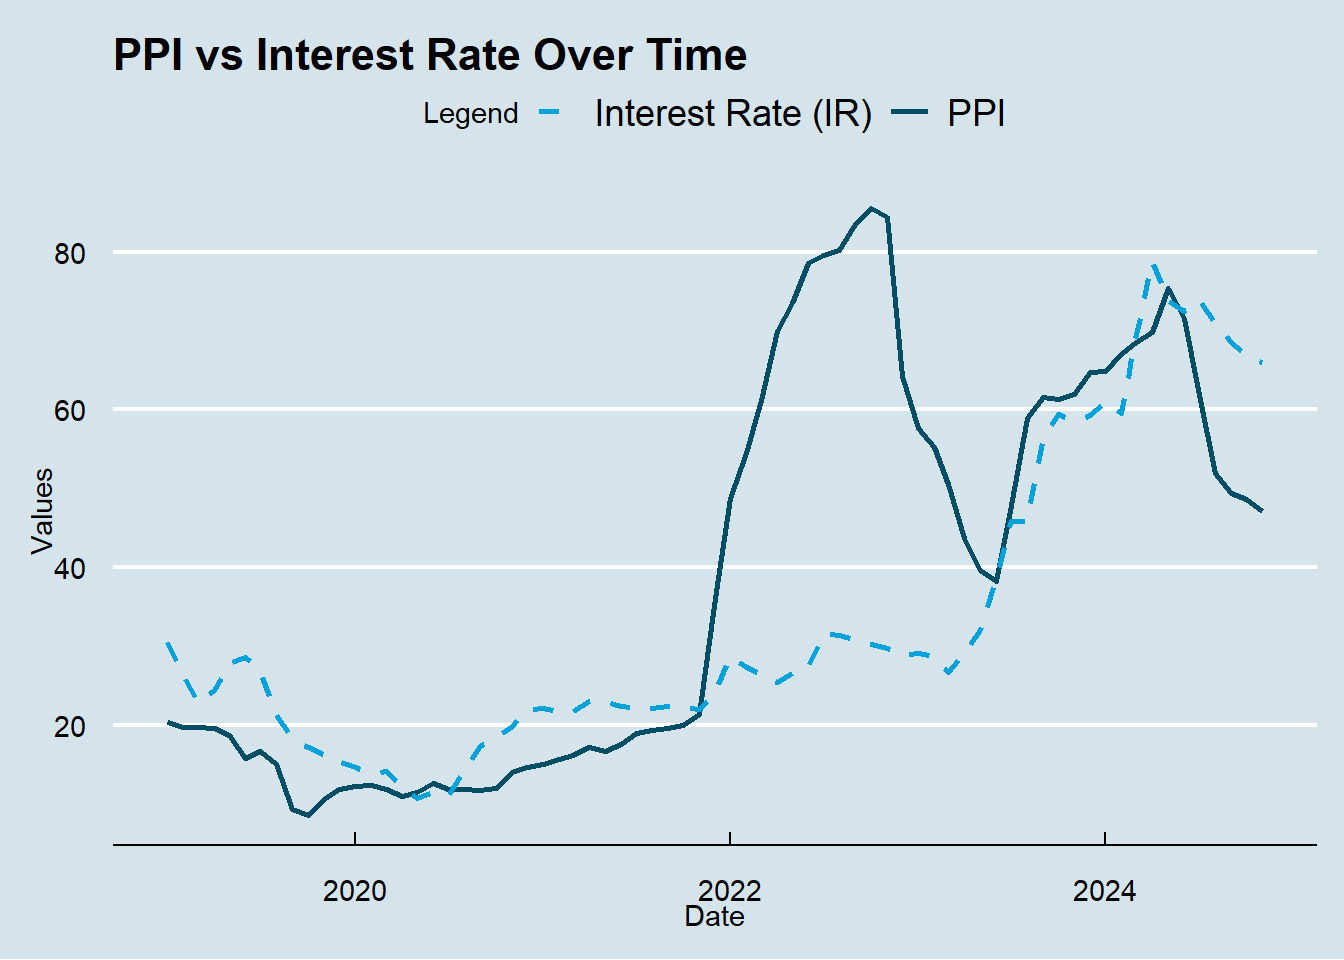
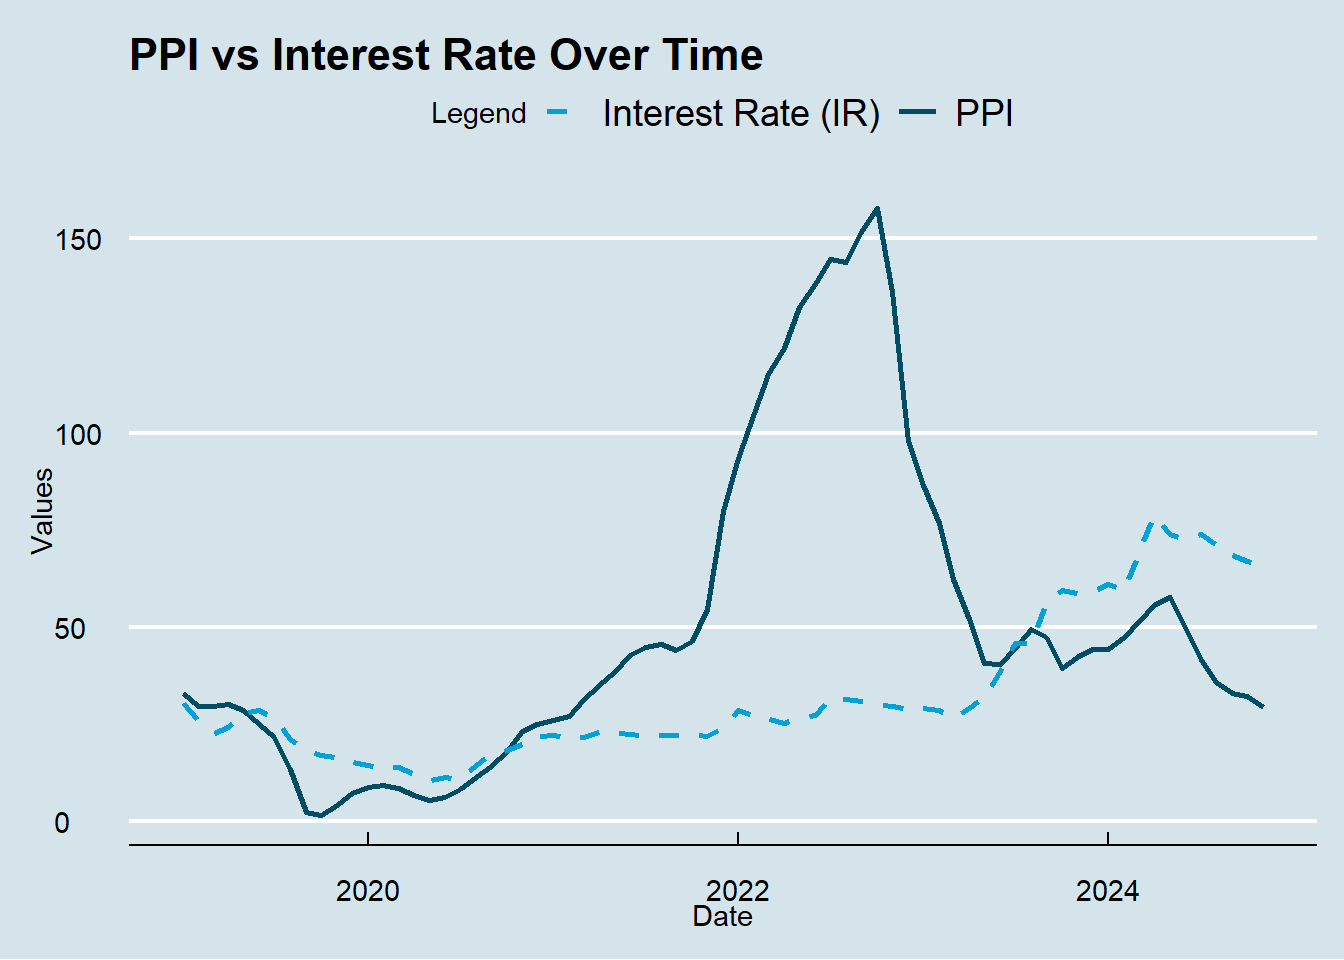
lmlmlml

diff --git a/docs/analysis.html b/docs/analysis.html
@@ -444,16 +444,16 @@ F-statistic: 119.3 on 1 and 69 DF,  p-value: &lt; 2.2e-16</code></pre>
 <pre><code># A tibble: 10 × 3
    DATE         PPI    IR
    &lt;date&gt;     &lt;dbl&gt; &lt;dbl&gt;
- 1 2019-01-01 20.4   30.5
- 2 2019-02-01 19.7   26.2
- 3 2019-03-01 19.7   22.8
- 4 2019-04-01 19.5   24.3
- 5 2019-05-01 18.7   27.8
- 6 2019-06-01 15.7   28.6
- 7 2019-07-01 16.6   26.9
- 8 2019-08-01 15.0   21.2
- 9 2019-09-01  9.26  18.2
-10 2019-10-01  8.55  17.2</code></pre>
+ 1 2019-01-01 32.9   30.5
+ 2 2019-02-01 29.6   26.2
+ 3 2019-03-01 29.6   22.8
+ 4 2019-04-01 30.1   24.3
+ 5 2019-05-01 28.7   27.8
+ 6 2019-06-01 25.0   28.6
+ 7 2019-07-01 21.7   26.9
+ 8 2019-08-01 13.4   21.2
+ 9 2019-09-01  2.45  18.2
+10 2019-10-01  1.7   17.2</code></pre>
 </div>
 </div>
 <p>Now we will sketch a graph line for visualization purposes.</p>
@@ -481,15 +481,15 @@ F-statistic: 119.3 on 1 and 69 DF,  p-value: &lt; 2.2e-16</code></pre>
 <div class="sourceCode cell-code" id="cb45"><pre class="sourceCode r code-with-copy"><code class="sourceCode r"><span id="cb45-1"><a href="#cb45-1" aria-hidden="true" tabindex="-1"></a>cor_interest <span class="ot">&lt;-</span> <span class="fu">cor</span>(data_yusuf<span class="sc">$</span>PPI, data_yusuf<span class="sc">$</span>IR)</span>
 <span id="cb45-2"><a href="#cb45-2" aria-hidden="true" tabindex="-1"></a><span class="fu">print</span>(cor_interest)</span></code><button title="Copy to Clipboard" class="code-copy-button"><i class="bi"></i></button></pre></div>
 <div class="cell-output cell-output-stdout">
-<pre><code>[1] 0.6384482</code></pre>
+<pre><code>[1] 0.1198634</code></pre>
 </div>
 <div class="sourceCode cell-code" id="cb47"><pre class="sourceCode r code-with-copy"><code class="sourceCode r"><span id="cb47-1"><a href="#cb47-1" aria-hidden="true" tabindex="-1"></a>cortest_interest <span class="ot">&lt;-</span> <span class="fu">cor.test</span>(data_yusuf<span class="sc">$</span>PPI, data_yusuf<span class="sc">$</span>IR)</span>
 <span id="cb47-2"><a href="#cb47-2" aria-hidden="true" tabindex="-1"></a><span class="fu">print</span>(cortest_interest<span class="sc">$</span>p.value)</span></code><button title="Copy to Clipboard" class="code-copy-button"><i class="bi"></i></button></pre></div>
 <div class="cell-output cell-output-stdout">
-<pre><code>[1] 2.099621e-09</code></pre>
+<pre><code>[1] 0.3194176</code></pre>
 </div>
 </div>
-<p>Correlation value is 0.638 which means these two indicators has a moderatly strong relation.Also p-value is less than 0.05 and this indicates this correlation value is significantly meaningfull.To conclude,we can say PPI and Interest Rate indicators can affects each other moderatly.</p>
+<p>Correlation value is 0.119 which means these two indicators does not have a strong relation.Also p-value is more than 0.05 and this indicates this correlation value is NOT significantly meaningfull.To conclude,we can say we did not find a clue about relation between PPI and Interest Rate indicators.</p>
 <p><strong>4-PRODUCER PRICE INDEX VS CONSUMER CONFIDENCE INDEX</strong></p>
 <p>This study analyzes the relationship between the Producer Price Index (PPI) and the Consumer Confidence Index (CCI). While PPI measures changes in the prices of goods and services at the producer level, the Consumer Confidence Index reflects the sentiment and expectations of consumers regarding the economy. Understanding the interaction between these two indicators is crucial for assessing the impact of price changes on consumer perceptions and behavior. Using historical data, the study examines how changes in PPI influence consumer confidence and evaluates the direction and magnitude of this relationship through various statistical methods.</p>
 <p>First let’s take a look at our data frame:</p>
@@ -499,16 +499,16 @@ F-statistic: 119.3 on 1 and 69 DF,  p-value: &lt; 2.2e-16</code></pre>
 <pre><code># A tibble: 10 × 3
    DATE         PPI   CCI
    &lt;date&gt;     &lt;dbl&gt; &lt;dbl&gt;
- 1 2019-01-01 20.4   127.
- 2 2019-02-01 19.7   131.
- 3 2019-03-01 19.7   140.
- 4 2019-04-01 19.5   139.
- 5 2019-05-01 18.7   143.
- 6 2019-06-01 15.7   153.
- 7 2019-07-01 16.6   148.
- 8 2019-08-01 15.0   130.
- 9 2019-09-01  9.26  139.
-10 2019-10-01  8.55  142.</code></pre>
+ 1 2019-01-01 32.9   127.
+ 2 2019-02-01 29.6   131.
+ 3 2019-03-01 29.6   140.
+ 4 2019-04-01 30.1   139.
+ 5 2019-05-01 28.7   143.
+ 6 2019-06-01 25.0   153.
+ 7 2019-07-01 21.7   148.
+ 8 2019-08-01 13.4   130.
+ 9 2019-09-01  2.45  139.
+10 2019-10-01  1.7   142.</code></pre>
 </div>
 </div>
 <p>And again as we have done all above we will sketch a line graph:</p>
@@ -532,15 +532,15 @@ F-statistic: 119.3 on 1 and 69 DF,  p-value: &lt; 2.2e-16</code></pre>
 <div class="sourceCode cell-code" id="cb52"><pre class="sourceCode r code-with-copy"><code class="sourceCode r"><span id="cb52-1"><a href="#cb52-1" aria-hidden="true" tabindex="-1"></a>cor_confidence <span class="ot">&lt;-</span> <span class="fu">cor</span>(data_yusuf<span class="sc">$</span>PPI, data_yusuf<span class="sc">$</span>CCI)</span>
 <span id="cb52-2"><a href="#cb52-2" aria-hidden="true" tabindex="-1"></a><span class="fu">print</span>(cor_confidence)</span></code><button title="Copy to Clipboard" class="code-copy-button"><i class="bi"></i></button></pre></div>
 <div class="cell-output cell-output-stdout">
-<pre><code>[1] 0.3265229</code></pre>
+<pre><code>[1] 0.4221268</code></pre>
 </div>
 <div class="sourceCode cell-code" id="cb54"><pre class="sourceCode r code-with-copy"><code class="sourceCode r"><span id="cb54-1"><a href="#cb54-1" aria-hidden="true" tabindex="-1"></a>cortest_confidence <span class="ot">&lt;-</span> <span class="fu">cor.test</span>(data_yusuf<span class="sc">$</span>PPI, data_yusuf<span class="sc">$</span>CCI)</span>
 <span id="cb54-2"><a href="#cb54-2" aria-hidden="true" tabindex="-1"></a><span class="fu">print</span>(cortest_confidence<span class="sc">$</span>p.value)</span></code><button title="Copy to Clipboard" class="code-copy-button"><i class="bi"></i></button></pre></div>
 <div class="cell-output cell-output-stdout">
-<pre><code>[1] 0.00545086</code></pre>
+<pre><code>[1] 0.0002456725</code></pre>
 </div>
 </div>
-<p>0.326 is too low to say these indicators has a notable relation and also p-value is low enough to be statisticaly meaningful but it is lower than our other correlation p-values.So we can easily say we can not confirm that there is a strong relation bewteen PPI and CCI.</p>
+<p>0.422 is relatively low to say these indicators has a notable relation but p-value is low enough to be statisticaly meaningful.So we can easily say we can confirm that there is a relation bewteen PPI and CCI and this relation is not strong.</p>
 <div class="cell">
 <div class="sourceCode cell-code" id="cb56"><pre class="sourceCode r code-with-copy"><code class="sourceCode r"><span id="cb56-1"><a href="#cb56-1" aria-hidden="true" tabindex="-1"></a><span class="fu">library</span>(readxl)      </span>
 <span id="cb56-2"><a href="#cb56-2" aria-hidden="true" tabindex="-1"></a><span class="fu">library</span>(ggplot2)     </span>
@@ -645,22 +645,22 @@ F-statistic: 119.3 on 1 and 69 DF,  p-value: &lt; 2.2e-16</code></pre>
 <p>• Energy Price Index- Producer Price Index (PPI)= 0.25689</p>
 <p>• Housing Price Index- Producer Price Index (PPI)= 0.88859</p>
 <p>• Import Price Index- Producer Price Index (PPI)= 0.41490</p>
-<p>• Interest Rates- Producer Price Index (PPI)= : 0.63844</p>
-<p>• Consumer Confidence Index- Producer Price Index (PPI)= 0.32652</p>
+<p>• Interest Rates- Producer Price Index (PPI)= 0.11986</p>
+<p>• Consumer Confidence Index- Producer Price Index (PPI)= 0.42212</p>
 <p>• Consumer Price Index- Producer Price Index (PPI)= 0.7959363</p>
 <p>• Credit Card Usage- Producer Price Index (PPI)= 0.60305</p>
 <p>We can choose the four most important and influential variables from the dataset we are using, then run a regression analysis to see which factors have the biggest effects on the PPI. We may learn more about the characteristics of the models we should concentrate on and how to enhance them to increase their efficacy or predictive power after performing this regression study. Our best 4 atrribute:</p>
 <ul>
 <li><p>Consumer Price Index- Producer Price Index (PPI)= 0.7959363</p></li>
 <li><p>Housing Price Index- Producer Price Index (PPI)= 0.888596687452896</p></li>
-<li><p>Interest Rates- Producer Price Index (PPI)= : 0.63844</p></li>
+<li><p>Consumer Confidence Index- Producer Price Index (PPI)= 0.42212</p></li>
 <li><p>Credit Card Usage- Producer Price Index (PPI)= 0.60305</p></li>
 </ul>
 <p><strong>PIE CHART FOR CORRELATION VALUES BETWEEN PPI AND FOUR INDICATORS</strong></p>
 <div class="cell">
 <div class="sourceCode cell-code" id="cb67"><pre class="sourceCode r code-with-copy"><code class="sourceCode r"><span id="cb67-1"><a href="#cb67-1" aria-hidden="true" tabindex="-1"></a>labels <span class="ot">&lt;-</span> <span class="fu">c</span>(<span class="st">"Consumer Price Index"</span>, <span class="st">"Housing Price Index"</span>, </span>
 <span id="cb67-2"><a href="#cb67-2" aria-hidden="true" tabindex="-1"></a>            <span class="st">"Interest Rates"</span>, <span class="st">"Consumer Confidence Index"</span>)</span>
-<span id="cb67-3"><a href="#cb67-3" aria-hidden="true" tabindex="-1"></a>correlations <span class="ot">&lt;-</span> <span class="fu">c</span>(<span class="fl">0.7959363</span>, <span class="fl">0.88859</span>, <span class="fl">0.63844</span>,<span class="fl">0.30305</span>)</span>
+<span id="cb67-3"><a href="#cb67-3" aria-hidden="true" tabindex="-1"></a>correlations <span class="ot">&lt;-</span> <span class="fu">c</span>(<span class="fl">0.7959363</span>, <span class="fl">0.88859</span>, <span class="fl">0.42212</span>,<span class="fl">0.60305</span>)</span>
 <span id="cb67-4"><a href="#cb67-4" aria-hidden="true" tabindex="-1"></a>total <span class="ot">&lt;-</span> <span class="fu">sum</span>(correlations)</span>
 <span id="cb67-5"><a href="#cb67-5" aria-hidden="true" tabindex="-1"></a>percentages <span class="ot">&lt;-</span> (correlations <span class="sc">/</span> total) <span class="sc">*</span> <span class="dv">100</span></span>
 <span id="cb67-6"><a href="#cb67-6" aria-hidden="true" tabindex="-1"></a></span>
